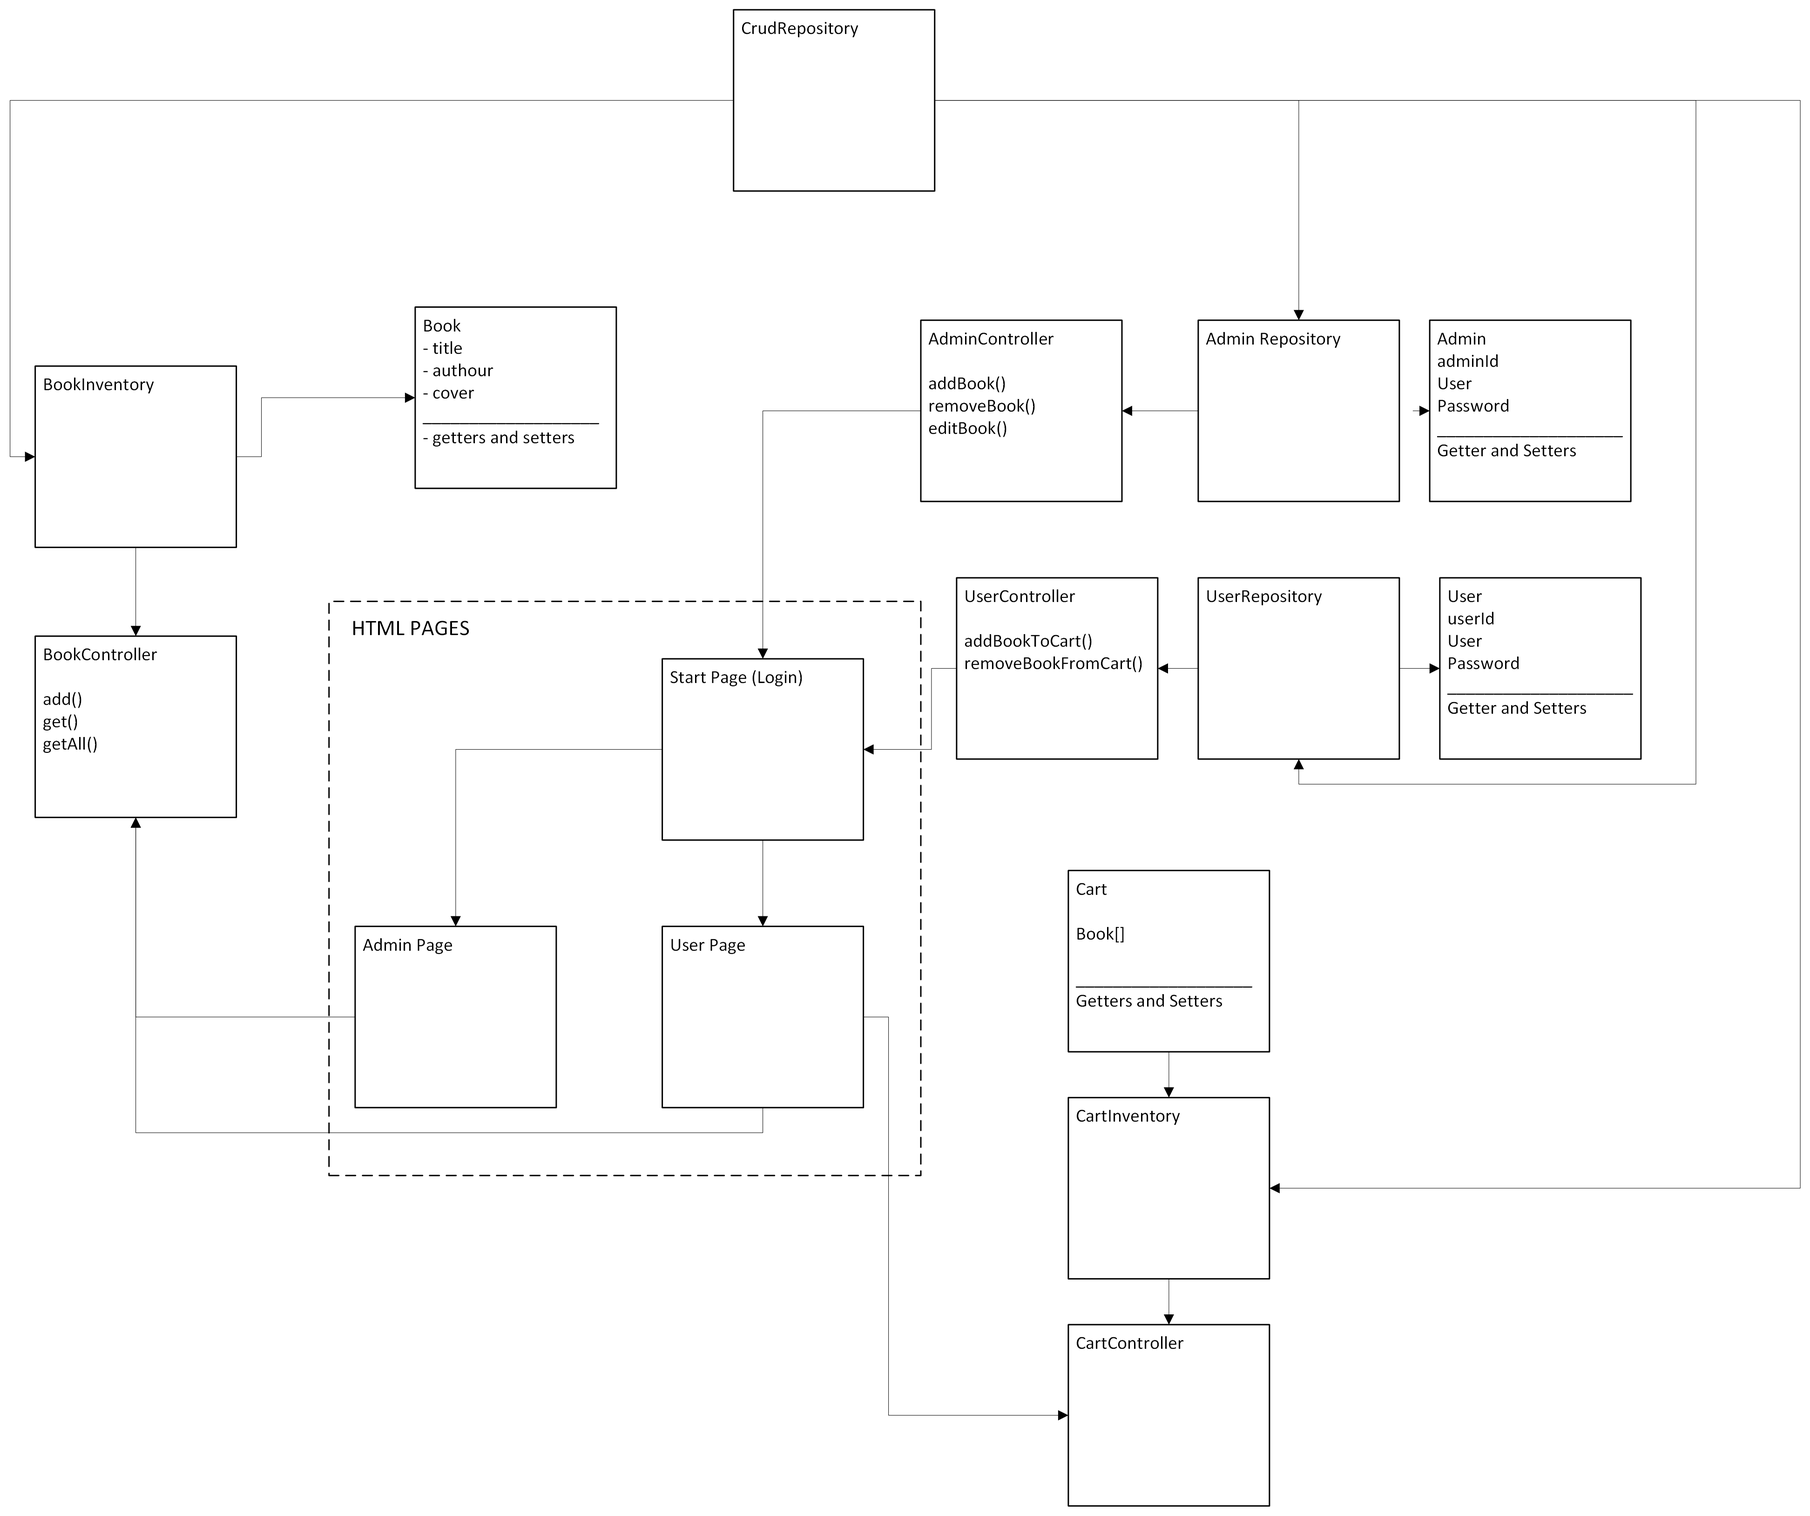
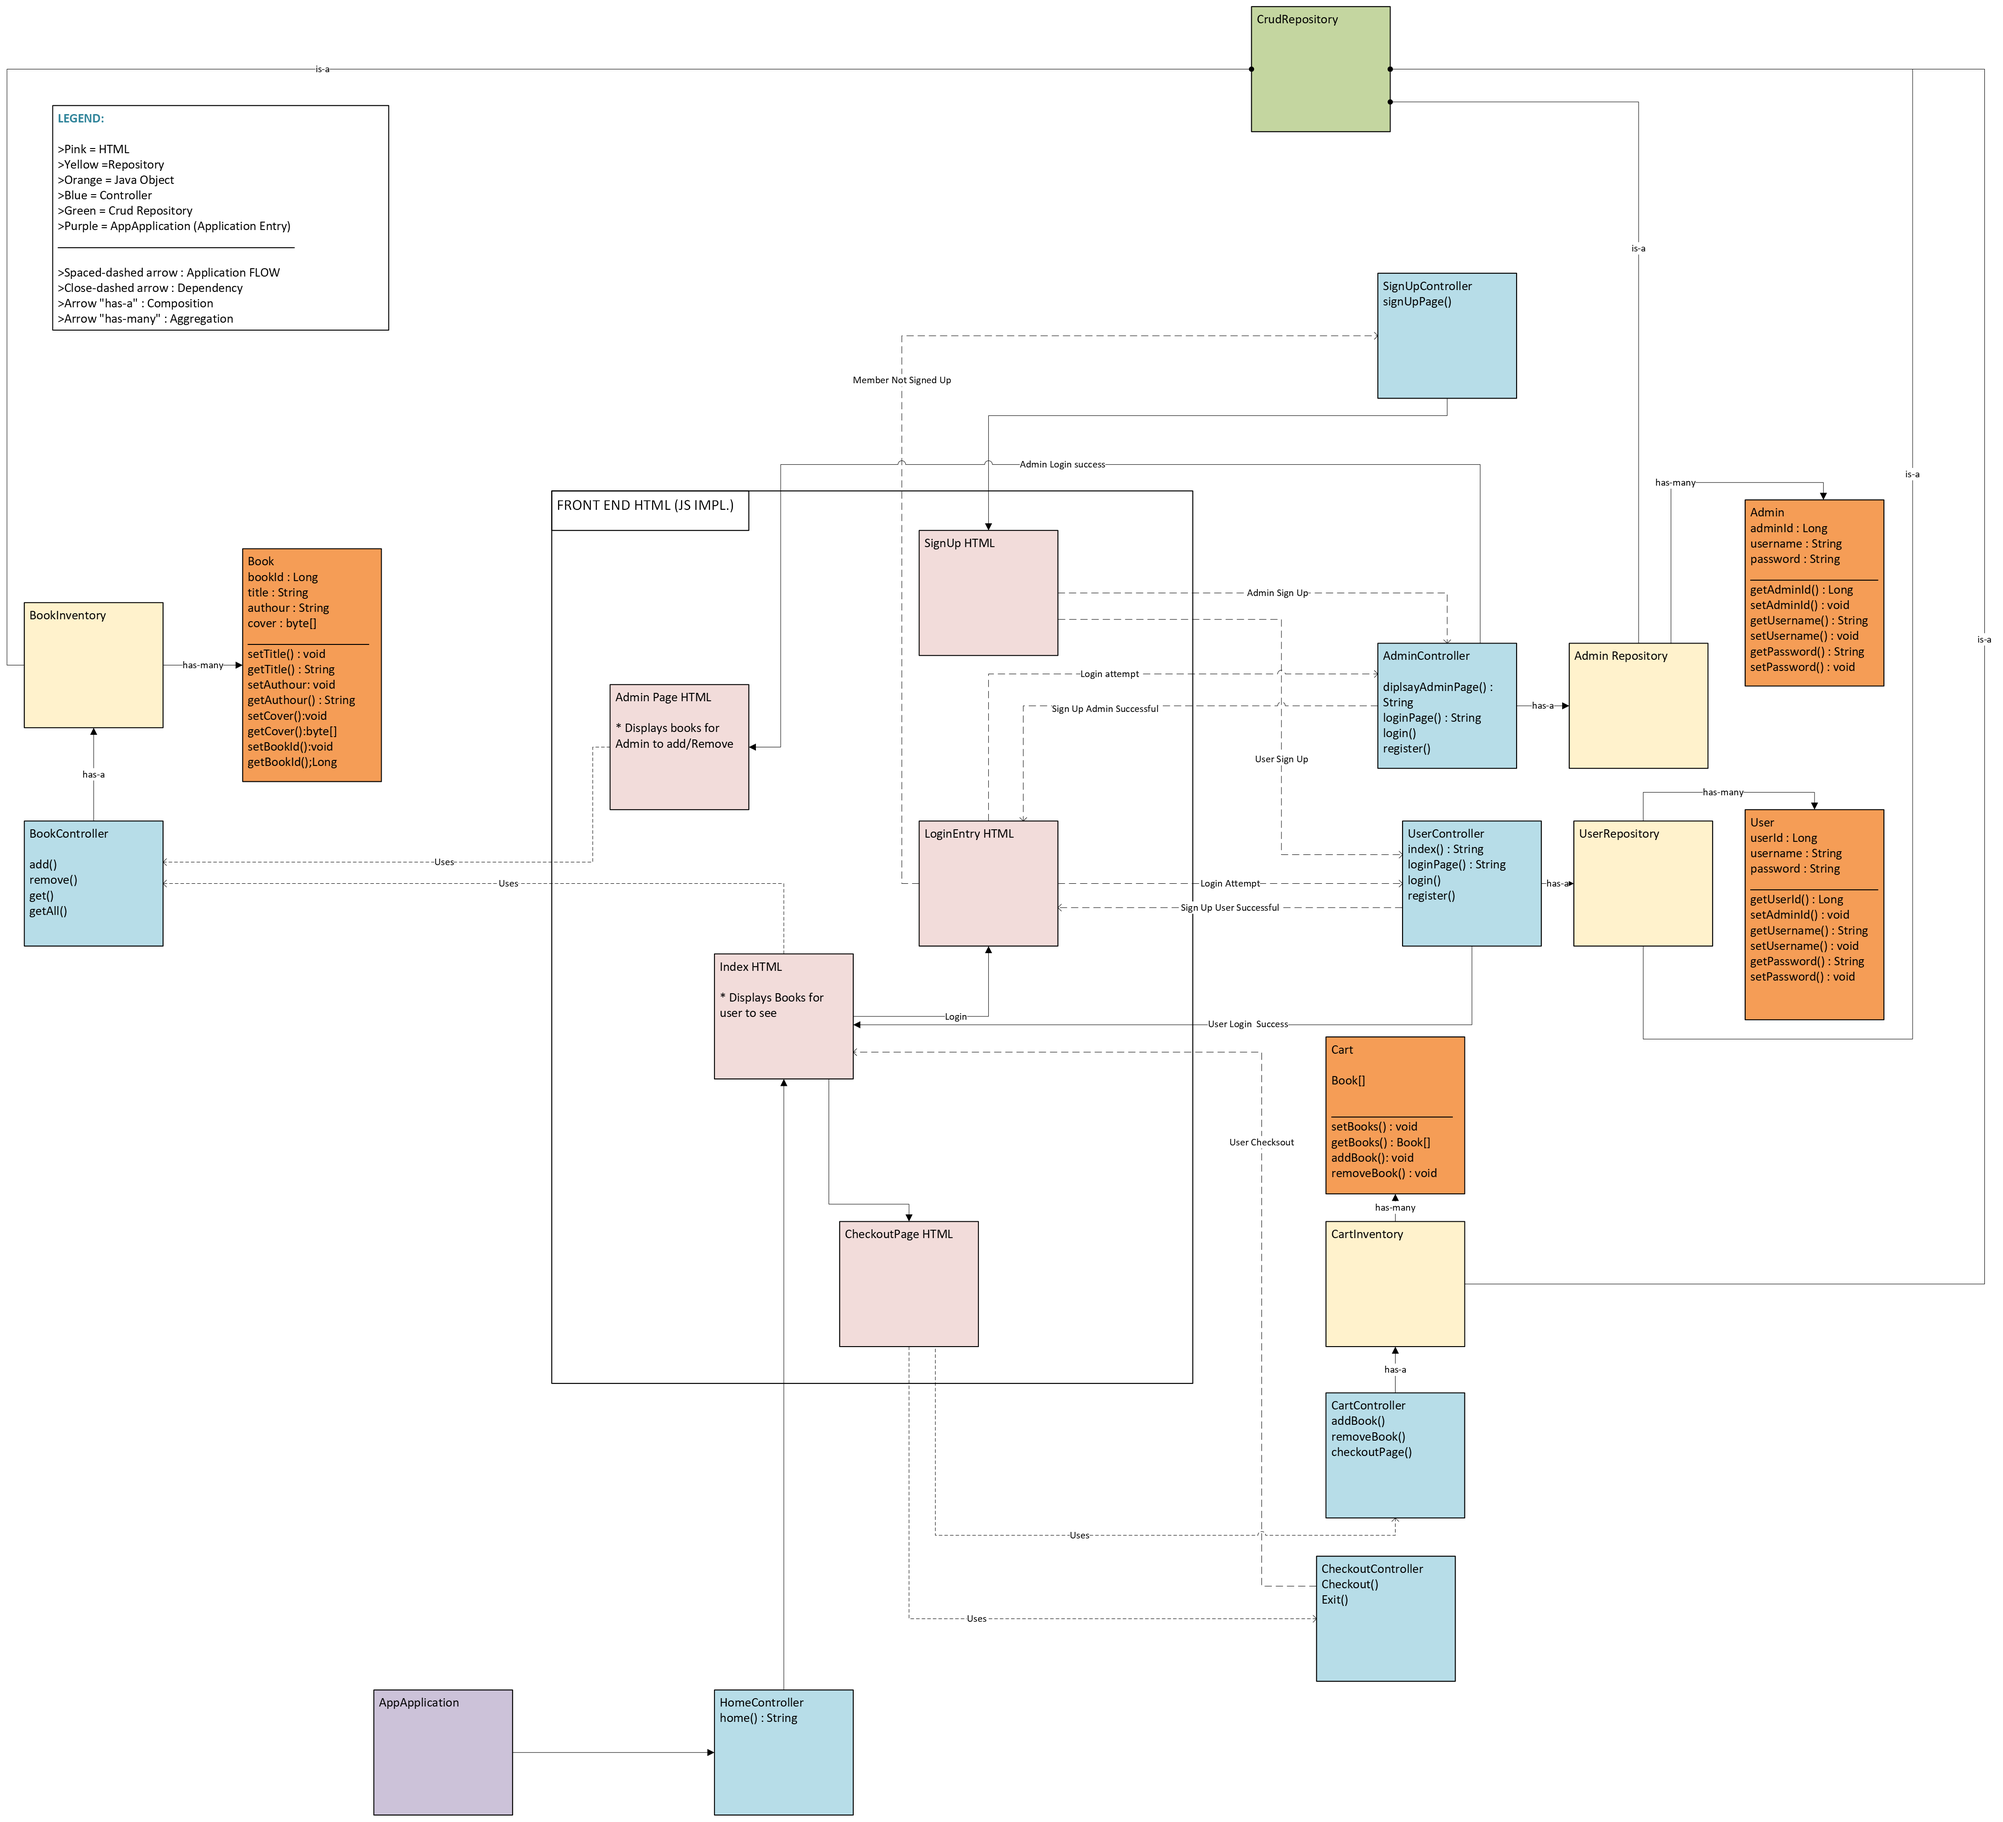
updated readme.md with new UML diagram (among other things)

diff --git a/README.md b/README.md
@@ -1,13 +1,70 @@
-# BookStore :: <span style = "color:gold"> Amazin </span>
+# BookStore :: Amazin.ca 🛒
 
-## UML (needs update)
+A modern online bookstore application built with Spring Boot.
 
-![Alt text](docs/SYSC_4806_UML.png)
+## Overview
 
-## Entity Relational Diagram
+Amazin.ca is an online bookstore platform that allows users to browse, search, and purchase books. The application is built using Spring Boot and can be deployed locally or accessed through Azure cloud platform.
 
-![Alt text](docs/BookStoreER.png)
+## System Architecture
 
-## Entity Relational Map Diagram
+### UML Diagram
+![UML Diagram](docs/SYSC_4806_UML.png)
 
-![Alt text](docs/BookStoreER-MAP.png)
+
+### Entity Relationship Diagram
+![ER Diagram](docs/BookStoreER.png)
+
+### Entity Relationship Map
+![ER Map](docs/BookStoreER-MAP.png)
+
+## Running the Application
+
+There are several ways to run the BookStore application:
+
+### 1. Using Terminal with Maven Wrapper
+```bash
+cd app
+./mvnw spring-boot:run
+```
+
+### 2. Building and Running JAR
+```bash
+# Build the application
+cd app
+./mvnw clean package
+
+# Run the JAR
+cd target
+java -jar app-0.0.1-SNAPSHOT.jar
+```
+
+### 3. Azure Cloud Deployment
+Access the live application at:
+[https://amazinonlinebookstore-fzhdb7arcjctabbq.canadaeast-01.azurewebsites.net](https://amazinonlinebookstore-fzhdb7arcjctabbq.canadaeast-01.azurewebsites.net)
+
+## Prerequisites
+- Java 21 or higher
+- Maven
+- Internet connection (for accessing Azure deployment)
+
+## Features
+- Browse and search books
+- User authentication
+- Shopping cart functionality
+- Order management
+- Secure checkout process
+
+## Technology
+- Spring Boot
+- Spring Data JPA
+- Spring Security
+- Maven
+- Azure Cloud Services
+
+
+## Support
+For any issues or questions, please open an issue in the repository or contact the development team.
+
+## License
+This project is licensed under the MIT License - see the LICENSE file for details.
